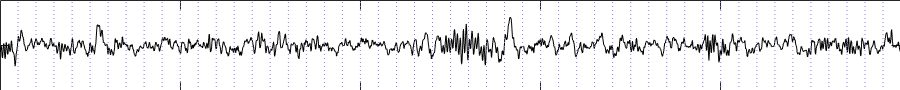
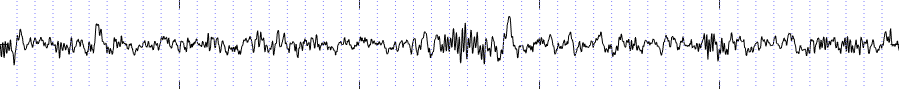
UI enhancement phase 2: Spindle picture and intro texts
- Spindle detectors (A7, Martin, SUMO): the example picture loses the 1 px
  top and left lines left from the viewer it was cut from; on the white card
  of the intro page they made it look cropped. The embedded copies are
  regenerated with each tool's script (tool versions 3.9.1, 2.11.1, 2.13.1).
- Import Annotations from Text and Report Oxygen Saturation intros: the fonts,
  sizes and highlight colors pasted with parts of the description are removed,
  so the text uses the Snooz font and has no white background.

diff --git a/tools/CEAMSTools/SpindleDetectionA7/SpindleDetectionDoc/art_image_data.py b/tools/CEAMSTools/SpindleDetectionA7/SpindleDetectionDoc/art_image_data.py
@@ -3,6 +3,6 @@ Base64 encoded artifact example images
 """
 
 E0004_B1_01_05_0001_SMP303751_RES80_IMAGE_BASE64 = """
[2 lines of base64/hex data omitted]
 """.strip()
 

diff --git a/tools/CEAMSTools/SpindleDetectionMartin/SpindleDetectionDoc/art_image_data.py b/tools/CEAMSTools/SpindleDetectionMartin/SpindleDetectionDoc/art_image_data.py
@@ -3,6 +3,6 @@ Base64 encoded artifact example images
 """
 
 E0004_B1_01_05_0001_SMP303751_RES80_IMAGE_BASE64 = """
[2 lines of base64/hex data omitted]
 """.strip()
 

diff --git a/tools/CEAMSTools/SpindleDetectionSumo/SpindleDetectionDoc/spindle_image_data.py b/tools/CEAMSTools/SpindleDetectionSumo/SpindleDetectionDoc/spindle_image_data.py
@@ -3,5 +3,5 @@ Base64 encoded spindle image data
 """
 
 SPINDLE_IMAGE_BASE64 = """
[2 lines of base64/hex data omitted]
 """.strip()

diff --git a/tools/CEAMSTools/ImportTextAnnotations/IntroStep/Ui_IntroStep.py b/tools/CEAMSTools/ImportTextAnnotations/IntroStep/Ui_IntroStep.py
@@ -49,44 +49,44 @@ class Ui_IntroStep(object):
 "li.unchecked::marker { content: \"\\2610\"; }\n"
 "li.checked::marker { content: \"\\2612\"; }\n"
 "</style></head><body style=\" font-family:'Roboto'; font-size:12pt; font-weight:400; font-style:normal;\">\n"
-"<p style=\" margin-top:0px; margin-bottom:0px; margin-left:0px; margin-right:0px; -qt-block-indent:0; text-indent:0px;\"><span style=\" font-family:'Aptos','Aptos_EmbeddedFont','Aptos_MSFontService','sans-serif'; font-weight:700; color:#000000; background-color:#ffffff;\">Import Annotations from Text\u00a0</span></p>\n"
-"<p style=\"-qt-paragraph-type:empty; margin-top:0px; margin-bottom:0px; margin-left:0px; margin-right:0px; -qt-block-indent:0; text-indent:0px;\"><br /></p>\n"
-"<p style=\" margin-top:0px; margin-bottom:"
-                        "0px; margin-left:0px; margin-right:0px; -qt-block-indent:0; text-indent:0px;\">Tool to import annotations from a text file (.csv, .tsv, .txt) into the accessory .tsv file used by Snooz.</p>\n"
+"<p style=\" margin-top:0px; margin-bottom:0px; margin-left:0px; margin-right:0px; -qt-block-indent:0; text-indent:0px;\"><span style=\" font-weight:700;\">Import Annotations from Text</span></p>\n"
+"<p style=\"-qt-paragraph-type:empty; margin-top:0px; margin-bottom:0px; margin-left:0px; margin-right:0px; -qt-block-indent:0; text-indent:0px; font-weight:700;\"><br /></p>\n"
+"<p style=\" margin-top:0px; margin-bottom:0px; margin-left:0px; margin-right:0px; -qt-block-indent:0; text-indent:0px;\">Tool to import annotations f"
+                        "rom a text file (.csv, .tsv, .txt) into the accessory .tsv file used by Snooz.</p>\n"
 "<p style=\"-qt-paragraph-type:empty; margin-top:0px; margin-bottom:0px; margin-left:0px; margin-right:0px; -qt-block-indent:0; text-indent:0px;\"><br /></p>\n"
 "<p style=\" margin-top:0px; margin-bottom:0px; margin-left:0px; margin-right:0px; -qt-block-indent:0; text-indent:0px;\"><span style=\" text-decoration: underline;\">Input :</span></p>\n"
 "<p style=\" margin-top:0px; margin-bottom:0px; margin-left:0px; margin-right:0px; -qt-block-indent:0; text-indent:0px;\">PSG files are mandatory.  The only supported format is .edf.</p>\n"
 "<p style=\" margin-top:0px; margin-bottom:0px; margin-left:0px; margin-right:0px; -qt-block-indent:0; text-indent:0px;\">The Snooz .tsv file is optional. If it is absent, it will be automatically generated.</p>\n"
-"<p style=\" margin-top:0px; margin-bottom:0px; margin-left:0px; margin-right"
-                        ":0px; -qt-block-indent:0; text-indent:0px;\">The annotation file to be imported must be saved in the same location as the PSG file.</p>\n"
+"<p style=\" margin-top:0px; margin-bottom:0px; margin-left:0px; margin-right:0px; -qt-block-indent:0; text-indent:0px;\">The annotation file to be imported must be saved in the same l"
+                        "ocation as the PSG file.</p>\n"
 "<p style=\"-qt-paragraph-type:empty; margin-top:0px; margin-bottom:0px; margin-left:0px; margin-right:0px; -qt-block-indent:0; text-indent:0px;\"><br /></p>\n"
 "<p style=\" margin-top:0px; margin-bottom:0px; margin-left:0px; margin-right:0px; -qt-block-indent:0; text-indent:0px;\"><span style=\" font-weight:700;\">Warning!</span><br />The annotation file must <span style=\" font-weight:700;\">not</span> have the same filename as the PSG file, otherwise Snooz will attempt to load it as a Snooz file.<br />To prevent processing errors, please specify a <span style=\" font-weight:700;\">prefix</span> and/or <span style=\" font-weight:700;\">suffix</span> for the annotation file.</p>\n"
 "<p style=\"-qt-paragraph-type:empty; margin-top:0px; margin-bottom:0px; margin-left:0px; margin-right:0px; -qt-block-indent:0; text-indent:0px;\"><br /></p>\n"
-"<p style=\" margin-top:0px; marg"
-                        "in-bottom:0px; margin-left:0px; margin-right:0px; -qt-block-indent:0; text-indent:0px;\"><span style=\" text-decoration: underline;\">1 - Input PSG Files :</span></p>\n"
+"<p style=\" margin-top:0px; margin-bottom:0px; margin-left:0px; margin-right:0px; -qt-block-indent:0; text-indent:0px;\"><span style=\" tex"
+                        "t-decoration: underline;\">1 - Input PSG Files :</span></p>\n"
 "<p style=\" margin-top:0px; margin-bottom:0px; margin-left:0px; margin-right:0px; -qt-block-indent:0; text-indent:0px;\">Select the PSG files for which you want to import additional annotations. You can select multiple files at once.</p>\n"
 "<p style=\"-qt-paragraph-type:empty; margin-top:0px; margin-bottom:0px; margin-left:0px; margin-right:0px; -qt-block-indent:0; text-indent:0px;\"><br /></p>\n"
 "<p style=\" margin-top:0px; margin-bottom:0px; margin-left:0px; margin-right:0px; -qt-block-indent:0; text-indent:0px;\"><span style=\" text-decoration: underline;\">2 - Link PSG and Text file :</span></p>\n"
 "<p style=\" margin-top:0px; margin-bottom:0px; margin-left:0px; margin-right:0px; -qt-block-indent:0; text-indent:0px;\">Specify how the PSG filename links to the annotation filename using a prefix and suffix. </p>\n"
-"<p style=\" margin-top"
-                        ":0px; margin-bottom:0px; margin-left:0px; margin-right:0px; -qt-block-indent:0; text-indent:0px;\">Define the file extension of the annotation file\u2014TSV, TXT, and CSV formats are supported.</p>\n"
+"<p style=\" margin-top:0px; margin-bottom:0px; margin-left:0px; margin-right:0px; -qt-block-indent:0; text-indent:0px;\">Define t"
+                        "he file extension of the annotation file\u2014TSV, TXT, and CSV formats are supported.</p>\n"
 "<p style=\" margin-top:0px; margin-bottom:0px; margin-left:0px; margin-right:0px; -qt-block-indent:0; text-indent:0px;\">The annotation file to be imported must be saved in the same location as the PSG file.</p>\n"
 "<p style=\"-qt-paragraph-type:empty; margin-top:0px; margin-bottom:0px; margin-left:0px; margin-right:0px; -qt-block-indent:0; text-indent:0px;\"><br /></p>\n"
 "<p style=\" margin-top:0px; margin-bottom:0px; margin-left:0px; margin-right:0px; -qt-block-indent:0; text-indent:0px;\"><span style=\" text-decoration: underline;\">3 - Text File Format :</span> </p>\n"
 "<p style=\" margin-top:0px; margin-bottom:0px; margin-left:0px; margin-right:0px; -qt-block-indent:0; text-indent:0px;\">Specify the format of the annotation text file. The default values are set for a Snooz .tsv annotation file.</p>\n"
-"<p "
-                        "style=\"-qt-paragraph-type:empty; margin-top:0px; margin-bottom:0px; margin-left:0px; margin-right:0px; -qt-block-indent:0; text-indent:0px;\"><br /></p>\n"
+"<p style=\"-qt-paragraph-type:empty; margin-top:0px; margin-bottom:0px; margin-left:0px; margin-right:0px; -qt"
+                        "-block-indent:0; text-indent:0px;\"><br /></p>\n"
 "<p style=\" margin-top:0px; margin-bottom:0px; margin-left:0px; margin-right:0px; -qt-block-indent:0; text-indent:0px;\"><span style=\" text-decoration: underline;\">Output :</span></p>\n"
 "<p style=\" margin-top:0px; margin-bottom:0px; margin-left:0px; margin-right:0px; -qt-block-indent:0; text-indent:0px;\">Annotations will be appended to the Snooz accessory .tsv file for each corresponding PSG file (named after the PSG file).</p>\n"
 "<p style=\" margin-top:0px; margin-bottom:0px; margin-left:0px; margin-right:0px; -qt-block-indent:0; text-indent:0px;\">Any previously saved annotations in the file with the same group, name, and channels as the new annotations will be deleted before appending the new data.</p>\n"
 "<p style=\" margin-top:0px; margin-bottom:0px; margin-left:0px; margin-right:0px; -qt-block-indent:0; text-indent:0px;\">	</p>\n"
-"<p style=\""
-                        " margin-top:0px; margin-bottom:0px; margin-left:0px; margin-right:0px; -qt-block-indent:0; text-indent:0px;\">The columns of the Snooz accessory file are as follows:</p>\n"
+"<p style=\" margin-top:0px; margin-bottom:0px; margin-left:0px; margin-right:0px; -qt-block-indent:0; text-indent:0px;"
+                        "\">The columns of the Snooz accessory file are as follows:</p>\n"
 "<p style=\" margin-top:0px; margin-bottom:0px; margin-left:0px; margin-right:0px; -qt-block-indent:0; text-indent:0px;\">   1. <span style=\" font-weight:600;\">group</span> : The category of the annotation (annotations with different names can be grouped into the same category), e.g. <span style=\" font-style:italic;\">spindle</span></p>\n"
 "<p style=\" margin-top:0px; margin-bottom:0px; margin-left:0px; margin-right:0px; -qt-block-indent:0; text-indent:0px;\">   2. <span style=\" font-weight:600;\">name</span>: The text label of the annotation, e.g., <span style=\" font-style:italic;\">spindle_a7</span></p>\n"
-"<p style=\" margin-top:0px; margin-bottom:0px; margin-left:0px; margin-right:0px; -qt-block-indent:0; text-indent:0px;\">   3. <span style=\" font-weight:600;\">start_sec</span>: The onset of the annotation in seconds, e.g., <span"
-                        " style=\" font-style:italic;\">300</span></p>\n"
-"<p style=\" margin-top:0px; margin-bottom:0px; margin-left:0px; margin-right:0px; -qt-block-indent:0; text-indent:0px;\">   4. <span style=\" font-weight:600;\">duration_sec</span> : The duration of the annotation in second, e.g., <span style=\" font-style:italic;\">0.9</span></p>\n"
+"<p style=\" margin-top:0px; margin-bottom:0px; margin-left:0px; margin-right:0px; -qt-block-indent:0; text-indent:0px;\">   3. <span style=\" font-weight:600;\">start_sec</span>: The onset of the annotation in seconds, e.g., <span style=\" font-style:italic;\">300</span></p>\n"
+"<p style=\" margin-top:0px; margin-bottom:0px; margin-lef"
+                        "t:0px; margin-right:0px; -qt-block-indent:0; text-indent:0px;\">   4. <span style=\" font-weight:600;\">duration_sec</span> : The duration of the annotation in second, e.g., <span style=\" font-style:italic;\">0.9</span></p>\n"
 "<p style=\" margin-top:0px; margin-bottom:0px; margin-left:0px; margin-right:0px; -qt-block-indent:0; text-indent:0px;\">   5. <span style=\" font-weight:600;\">channels</span> : The list of channels on which the annotation occurs, e.g., <span style=\" font-style:italic;\">[C3-A2]</span></p></body></html>", None))
     # retranslateUi
 

diff --git a/tools/CEAMSTools/OxygenSaturationReport/IntroStep/Ui_IntroStep.py b/tools/CEAMSTools/OxygenSaturationReport/IntroStep/Ui_IntroStep.py
@@ -88,8 +88,8 @@ class Ui_IntroStep(object):
 "<p style=\" margin-top:12px; margin-bottom:12px; margin-left:0px; margin-right:0px; -qt-block-indent:0; text-indent:0px;\"><span style=\" font-weight:700;\">Optional outputs</span></p>\n"
 "<p style=\" margin-top:12px; margin-bottom:12px; margin-left:0px; margin-right:0px; -qt-block-indent:0; text-indent:0px;\">The detected desaturation and recovery events can be saved in the accessory file associated with the recording, for review.</p>\n"
 "<p style=\" margin-top:12px; margin-bottom:12px; margin-left:0px; margin-right:0px; -qt-block-indent:0; text-indent:0px;\">Annotation for desaturation events : group = SpO2; name = desat_SpO2; <br />Annotation for recovery events : gro"
-                        "up = SpO2; name = recovery_SpO2; </p>\n"
-"<p style=\" margin-top:12px; margin-bottom:12px; margin-left:0px; margin-right:0px; -qt-block-indent:0; text-indent:0px;\"><span style=\" font-family:'Lato','proxima-nova','Helvetica Neue','Arial','sans-serif'; font-size:16px; color:#404040; background-color:#fcfcfc;\">The user can select an output directory to save the following outputs for each recording :</span><br />- A desaturation characteristics report, including:<br />   - start time (s)<br />   - duration (s)<br />   - slope (%/s)<br />   - depth (%)<br />   - area (%*s)<br />- The oxygen saturation graph, including saturation signal for the entire recording and invalid sections highlighted.</p>\n"
+                        "up = SpO2; name = recovery_SpO2;</p>\n"
+"<p style=\" margin-top:12px; margin-bottom:12px; margin-left:0px; margin-right:0px; -qt-block-indent:0; text-indent:0px;\">The user can select an output directory to save the following outputs for each recording:<br />- A desaturation characteristics report, including:<br />   - start time (s)<br />   - duration (s)<br />   - slope (%/s)<br />   - depth (%)<br />   - area (%*s)<br />- The oxygen saturation graph, including saturation signal for the entire recording and invalid sections highlighted.</p>\n"
 "<p style=\"-qt-paragraph-type:empty; margin-top:0px; margin-bottom:0px; margin-left:0px; margin-right:0px; -qt-block-indent:0; text-indent:0px;\"><br /></p></body></html>", None))
     # retranslateUi
 
